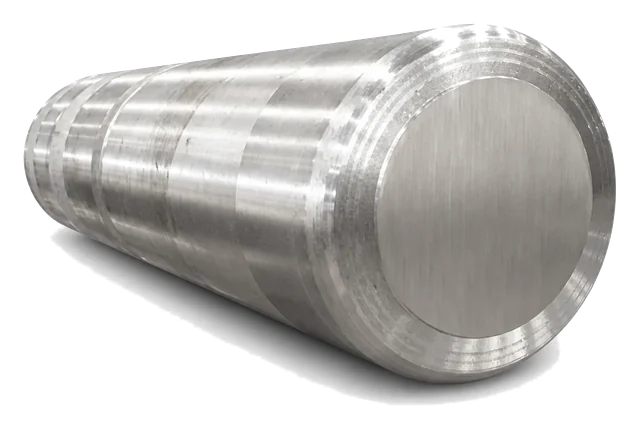
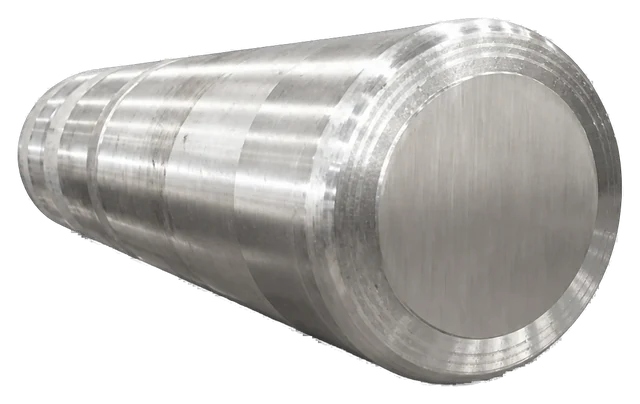
Carousel: clean AI cut-outs (no halos, shadows or white holes); swap solar battery for inverters

diff --git a/catalog.html b/catalog.html
@@ -18,7 +18,7 @@
   <meta property="og:image:width" content="1200">
   <meta property="og:image:height" content="630">
   <meta name="twitter:card" content="summary_large_image">
-  <link rel="stylesheet" href="assets/catalog.css?v=20261107-16">
+  <link rel="stylesheet" href="assets/catalog.css?v=20261107-17">
 </head>
 <body data-page="catalog">
   <header class="catalog-header">
@@ -69,7 +69,7 @@
     <section class="catalog-content"><div class="container" id="catalog-results"></div></section>
   </main>
   <footer class="catalog-footer"><div class="container"><span>© <span class="current-year">2026</span> Carasia Consulting · <a href="privacy.html" data-en="Privacy" data-es="Privacidad">Privacy</a></span><span data-en="Product sourcing with clear communication" data-es="Abastecimiento de productos con comunicación clara">Product sourcing with clear communication</span></div></footer>
-  <script src="assets/catalog.js?v=20261107-16"></script>
+  <script src="assets/catalog.js?v=20261107-17"></script>
   <script>
     const catalogMenuButton = document.querySelector(".catalog-menu-button");
     const catalogNavigation = document.getElementById("catalog-navigation");

diff --git a/privacy.html b/privacy.html
@@ -9,7 +9,7 @@
   <link rel="icon" href="favicon-32.png" type="image/png" sizes="32x32">
   <link rel="apple-touch-icon" href="apple-touch-icon.png">
   <meta name="theme-color" content="#05275b">
-  <link rel="stylesheet" href="assets/catalog.css?v=20261107-16">
+  <link rel="stylesheet" href="assets/catalog.css?v=20261107-17">
 </head>
 <body data-page="privacy">
   <header class="catalog-header">
@@ -97,7 +97,7 @@
   <footer class="catalog-footer">
     <div class="container"><span>© <span class="current-year">2026</span> Carasia Consulting · <a href="privacy.html" data-en="Privacy" data-es="Privacidad">Privacy</a></span><span data-en="Product sourcing with clear communication" data-es="Abastecimiento de productos con comunicación clara">Product sourcing with clear communication</span></div>
   </footer>
-  <script src="assets/catalog.js?v=20261107-16"></script>
+  <script src="assets/catalog.js?v=20261107-17"></script>
   <script>
     const catalogMenuButton = document.querySelector(".catalog-menu-button");
     const catalogNavigation = document.getElementById("catalog-navigation");

diff --git a/product.html b/product.html
@@ -17,7 +17,7 @@
   <meta property="og:image:width" content="1200">
   <meta property="og:image:height" content="630">
   <meta name="twitter:card" content="summary_large_image">
-  <link rel="stylesheet" href="assets/catalog.css?v=20261107-16">
+  <link rel="stylesheet" href="assets/catalog.css?v=20261107-17">
 </head>
 <body data-page="product">
   <header class="catalog-header">
@@ -41,7 +41,7 @@
   <footer class="catalog-footer">
     <div class="container"><span>© <span class="current-year">2026</span> Carasia Consulting · <a href="privacy.html" data-en="Privacy" data-es="Privacidad">Privacy</a></span><span data-en="Product sourcing with clear communication" data-es="Abastecimiento de productos con comunicación clara">Product sourcing with clear communication</span></div>
   </footer>
-  <script src="assets/catalog.js?v=20261107-16"></script>
+  <script src="assets/catalog.js?v=20261107-17"></script>
   <script>
     const catalogMenuButton = document.querySelector(".catalog-menu-button");
     const catalogNavigation = document.getElementById("catalog-navigation");

diff --git a/assets/catalog.js b/assets/catalog.js
@@ -717,7 +717,7 @@ let slideshowTimer = null;
 // Products shown in the cut-out carousel. Each has a transparent-background
 // image in images/showcase/<SKU>.webp (made from the product photo).
 const CAROUSEL_SKUS = [
-  "CAR-0108", "CAR-0264", "CAR-0131", "CAR-0250", "CAR-0123", "CAR-0173",
+  "CAR-0108", "CAR-0264", "CAR-0131", "CAR-0261", "CAR-0123", "CAR-0173",
   "CAR-0273", "CAR-0134", "CAR-0018", "CAR-0126", "CAR-0135", "CAR-0129",
 ];
 const CAROUSEL_PAUSE_MS = 2600;
@@ -737,7 +737,7 @@ function renderCarousel(root) {
           ${items.map((item, index) => `
             <a class="reel-item" href="product.html?id=${encodeURIComponent(item.sku)}"
                data-index="${index}" aria-label="${esc(productTitle(item))}">
-              <img src="images/showcase/${esc(item.sku)}.webp" alt="" draggable="false">
+              <img src="images/showcase/${esc(item.sku)}.webp?v=2" alt="" draggable="false">
             </a>
           `).join("")}
         </div>
